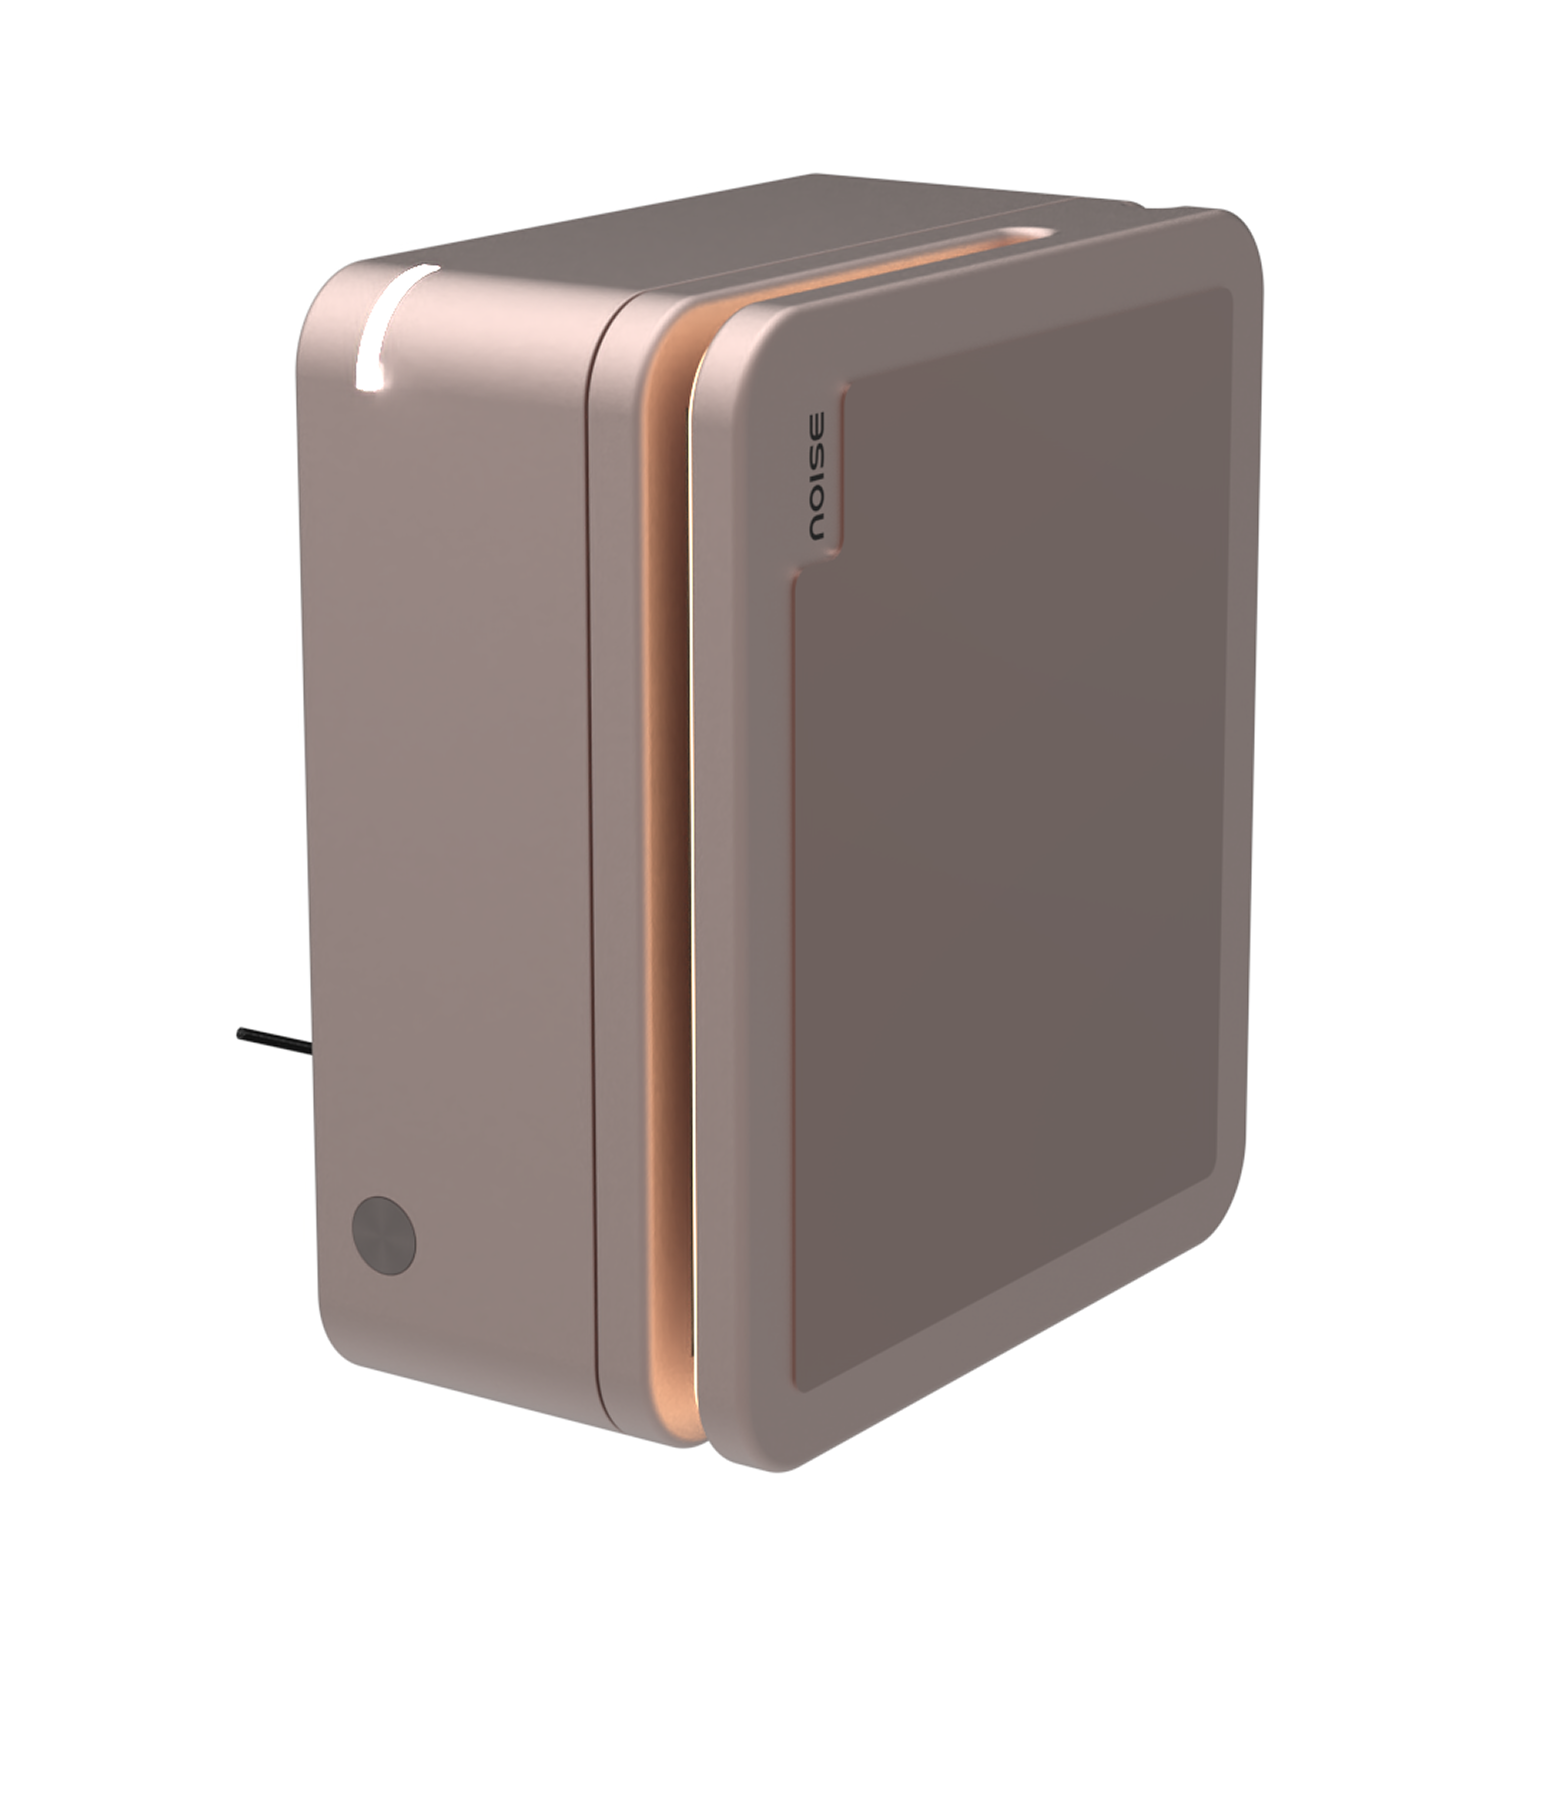
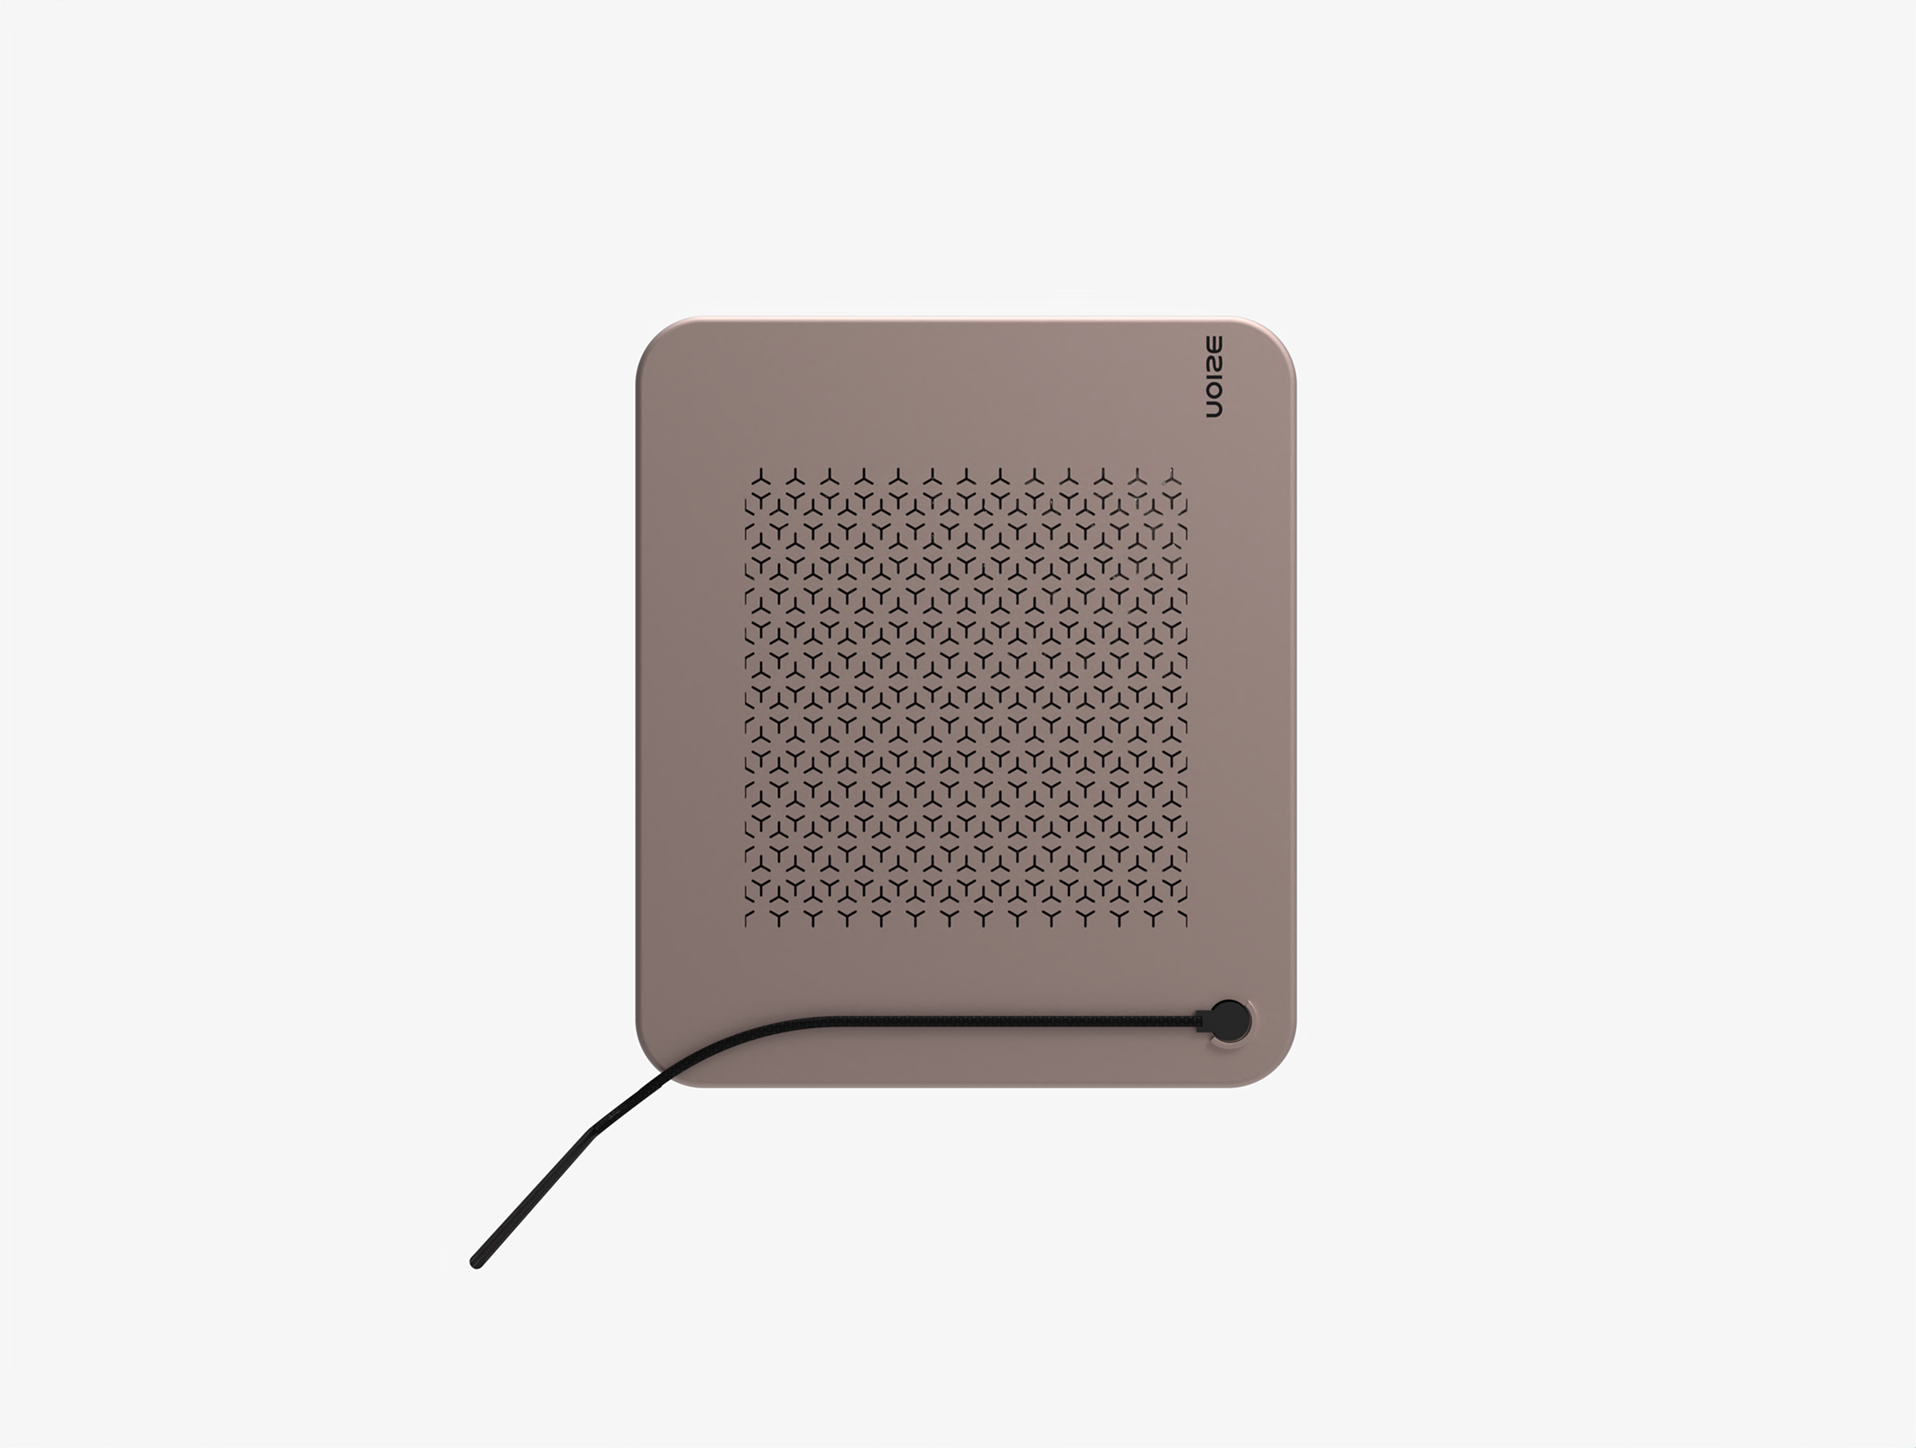
add team pic & social links

diff --git a/src/data/products.ts b/src/data/products.ts
@@ -35,8 +35,8 @@ export const products: Product[] = [
     client: "Modular Gardening",
     description: "A compact modular gardening concept built around flexibility and simplicity. The system consists of interchangeable planter units that can be arranged, expanded, and adapted to different spaces—making urban gardening more accessible and visually integrated into everyday environments.",
     url: "products/loop.png",
-    width: 1900,
-    height: 1500,
+    width: 1980,
+    height: 1200,
   },
   {
     slug: "rahee",
@@ -55,6 +55,24 @@ export const products: Product[] = [
     url: "products/opulence.png",
     width: 2000,
     height: 1900,
+  },
+    {
+    slug: "atomo",
+    name: "Atomo",
+    client: "AI System",
+    description: "A compact enclosure designed to protect AI computing hardware while ensuring efficient thermal management and a clean, functional aesthetic.",
+    url: "products/atomo.png",
+    width: 3840,
+    height: 2160,
+  },
+      {
+    slug: "flo",
+    name: "Flo",
+    client: "Air Purifer designed for NOISE",
+    description: "FLO is an air purification concept designed to address both air quality and everyday noise. Its form integrates filtration and acoustic considerations into a single product, creating a quieter and more comfortable indoor environment through a clean, contemporary design.",
+    url: "products/flo.png",
+    width: 1916,
+    height: 1448,
   },
   {
     slug: "prism-planter",
@@ -98,6 +116,15 @@ export const products: Product[] = [
     client: "3D Room visualization",
     description: "A detailed 3D visualization project showcasing realistic lighting, materials, and spatial storytelling through an isometric interior environment.",
     url: "products/iso_room.png",
+    width: 1080,
+    height: 1080,
+  },
+     {
+    slug: "stride",
+    name: "STRIDE",
+    client: "hard-shell luggage",
+    description: "Stride is a modern hard-shell luggage concept designed for effortless travel. Featuring a durable ribbed exterior, smooth mobility, and a clean, contemporary form, it balances functionality with a refined visual identity.",
+    url: "products/stride.png",
     width: 1080,
     height: 1080,
   },

diff --git a/src/components/Navbar.tsx b/src/components/Navbar.tsx
@@ -96,7 +96,12 @@ const NAV_ITEMS: NavItem[] = [
  
 ];
 
-const SOCIALS = ["LinkedIn", "Behance", "Instagram", "Pinterest",];
+const SOCIALS = [
+  { name: "LinkedIn", url: "https://www.linkedin.com/in/build-diff-10b15a414/" },
+  { name: "Behance", url: "#" },
+  { name: "Instagram", url: "https://www.instagram.com/studio.build.diff/" },
+  { name: "Pinterest", url: "#" },
+];
 
 export function Navbar() {
   const [open, setOpen] = React.useState(false);
@@ -352,13 +357,19 @@ export function Navbar() {
           })}
         </div>
 
-        <div ref={socialsRef} className={styles.navbar__socials}>
-          {SOCIALS.map((s) => (
-            <a key={s} href="#" className={styles.navbar__socialLink}>
-              {s}
-            </a>
-          ))}
-        </div>
+       <div ref={socialsRef} className={styles.navbar__socials}>
+  {SOCIALS.map((s) => (
+    
+     <a key={s.name}
+      href={s.url}
+      target="_blank"
+      rel="noreferrer"
+      className={styles.navbar__socialLink}
+    >
+      {s.name}
+    </a>
+  ))}
+</div>
       </nav>
     </>
   );
